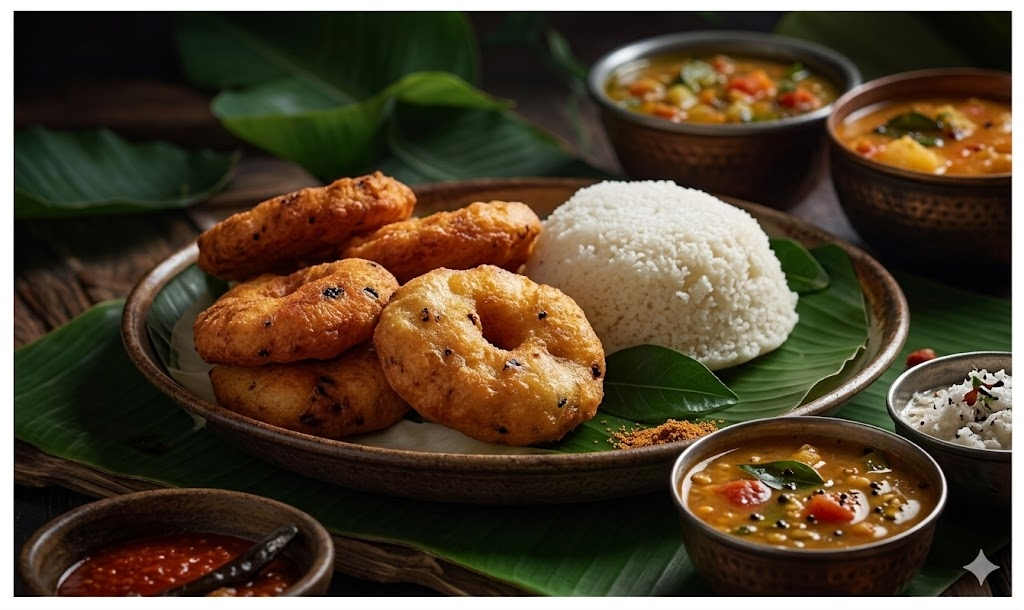
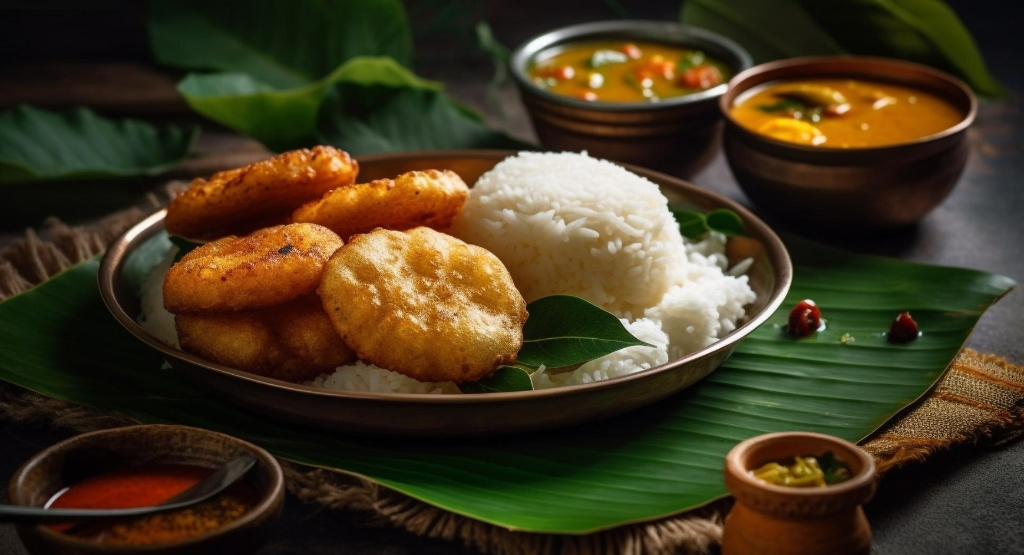
feat(ui): update background to South Indian food platter with refined dark glassmorphism

diff --git a/src/styles/global.css b/src/styles/global.css
@@ -417,9 +417,7 @@ body,
   content: '';
   position: absolute;
   inset: 0;
-  background: rgba(0, 0, 0, 0.55);
-  -webkit-backdrop-filter: blur(10px);
-  backdrop-filter: blur(10px);
+  background: radial-gradient(circle at center, rgba(10, 10, 14, 0.45) 0%, rgba(6, 6, 8, 0.75) 100%);
   pointer-events: none;
 }
 
@@ -700,9 +698,7 @@ body,
   content: '';
   position: absolute;
   inset: 0;
-  background: rgba(0, 0, 0, 0.58);
-  -webkit-backdrop-filter: blur(10px);
-  backdrop-filter: blur(10px);
+  background: radial-gradient(circle at center, rgba(10, 10, 14, 0.45) 0%, rgba(6, 6, 8, 0.75) 100%);
   pointer-events: none;
 }
 
@@ -1461,8 +1457,8 @@ a:hover {
     top: 24px;
     right: 20px;
     background: rgba(255, 107, 53, 0.2);
-    color: #ff6b35;
-    border: 1px solid #ff6b35;
+    color: #DF9B34;
+    border: 1px solid #DF9B34;
     padding: 4px 10px;
     border-radius: 12px;
     font-size: 11px;
@@ -1563,7 +1559,7 @@ a:hover {
 
   /* Role Selection Mobile Overrides */
   .role-selection-container {
-    background-image: linear-gradient(180deg, #0f1c13 0%, #060a08 100%), url('../assets/restaurant_bg.png') !important;
+    background-image: linear-gradient(180deg, rgba(10, 10, 14, 0.55) 0%, rgba(6, 6, 8, 0.78) 100%), url('../assets/restaurant_bg.png') !important;
   }
 
   .btn-role {
@@ -1573,11 +1569,11 @@ a:hover {
 
   .btn-role.active {
     background: linear-gradient(90deg, rgba(255, 107, 53, 0.15) 0%, rgba(255, 107, 53, 0.05) 100%) !important;
-    border-color: #ff6b35 !important;
+    border-color: #DF9B34 !important;
   }
 
   .btn-role-icon {
-    background: #ff6b35 !important;
+    background: #DF9B34 !important;
     color: white !important;
     border: none !important;
   }

diff --git a/src/pages/Onboarding.jsx b/src/pages/Onboarding.jsx
@@ -215,9 +215,11 @@ const Onboarding = () => {
       <div
         className="role-selection-container"
         style={{
-          backgroundImage: `linear-gradient(180deg, rgba(14, 14, 18, 0.88) 0%, rgba(8, 8, 12, 0.96) 100%), url(${RestaurantBG})`,
+          backgroundImage: `linear-gradient(180deg, rgba(10, 10, 14, 0.52) 0%, rgba(6, 6, 8, 0.78) 100%), url(${RestaurantBG})`,
           backgroundSize: 'cover',
           backgroundPosition: 'center',
+          backgroundRepeat: 'no-repeat',
+          backgroundAttachment: 'fixed',
           minHeight: '100vh',
           display: 'flex',
           flexDirection: 'column',
@@ -340,7 +342,7 @@ const Onboarding = () => {
     <div
       className="login-container"
       style={{
-        backgroundImage: `linear-gradient(180deg, rgba(14, 14, 18, 0.88) 0%, rgba(8, 8, 12, 0.96) 100%), url(${RestaurantBG})`,
+        backgroundImage: `linear-gradient(180deg, rgba(10, 10, 14, 0.52) 0%, rgba(6, 6, 8, 0.78) 100%), url(${RestaurantBG})`,
         backgroundSize: 'cover',
         backgroundPosition: 'center',
         minHeight: '100vh',

diff --git a/src/pages/RoleSelection.jsx b/src/pages/RoleSelection.jsx
@@ -54,9 +54,11 @@ const RoleSelection = () => {
     <div
       className="role-selection-container"
       style={{
-        backgroundImage: `linear-gradient(180deg, rgba(14, 14, 18, 0.88) 0%, rgba(8, 8, 12, 0.96) 100%), url(${RestaurantBG})`,
+        backgroundImage: `linear-gradient(180deg, rgba(10, 10, 14, 0.52) 0%, rgba(6, 6, 8, 0.78) 100%), url(${RestaurantBG})`,
         backgroundSize: 'cover',
         backgroundPosition: 'center',
+        backgroundRepeat: 'no-repeat',
+        backgroundAttachment: 'fixed',
         minHeight: '100vh',
         display: 'flex',
         flexDirection: 'column',
